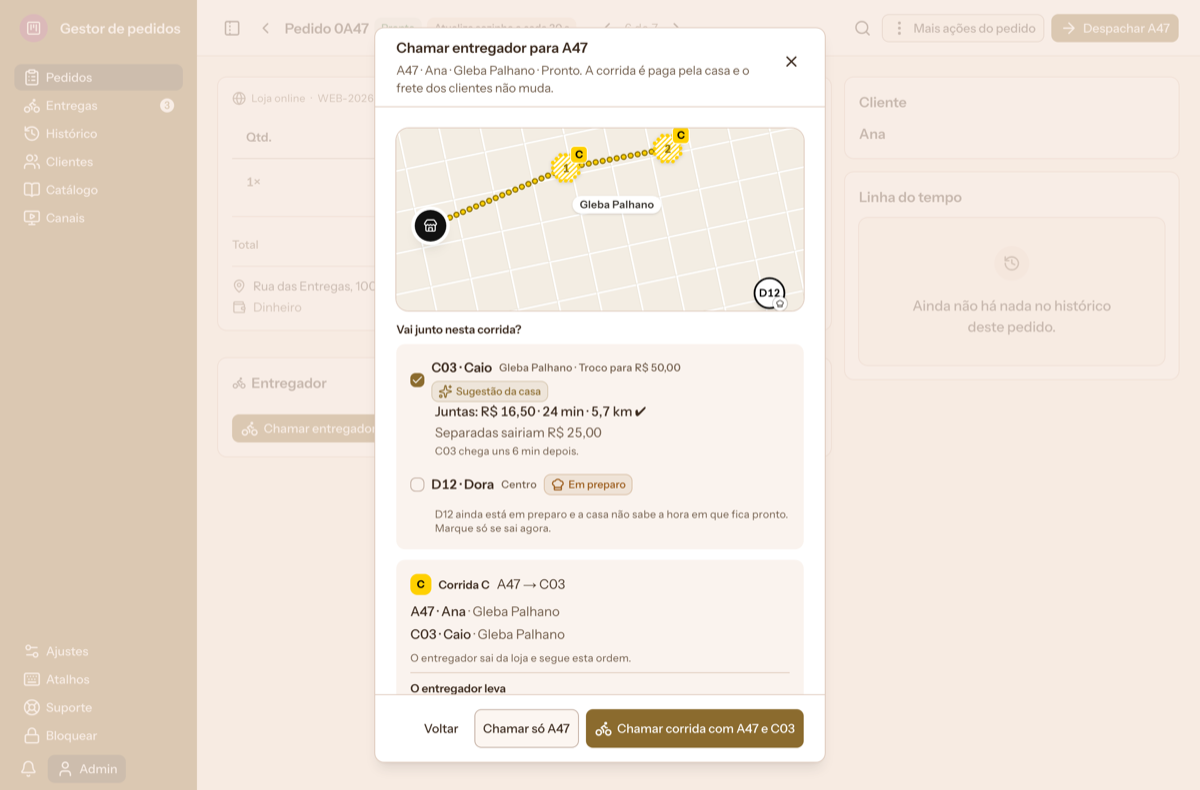
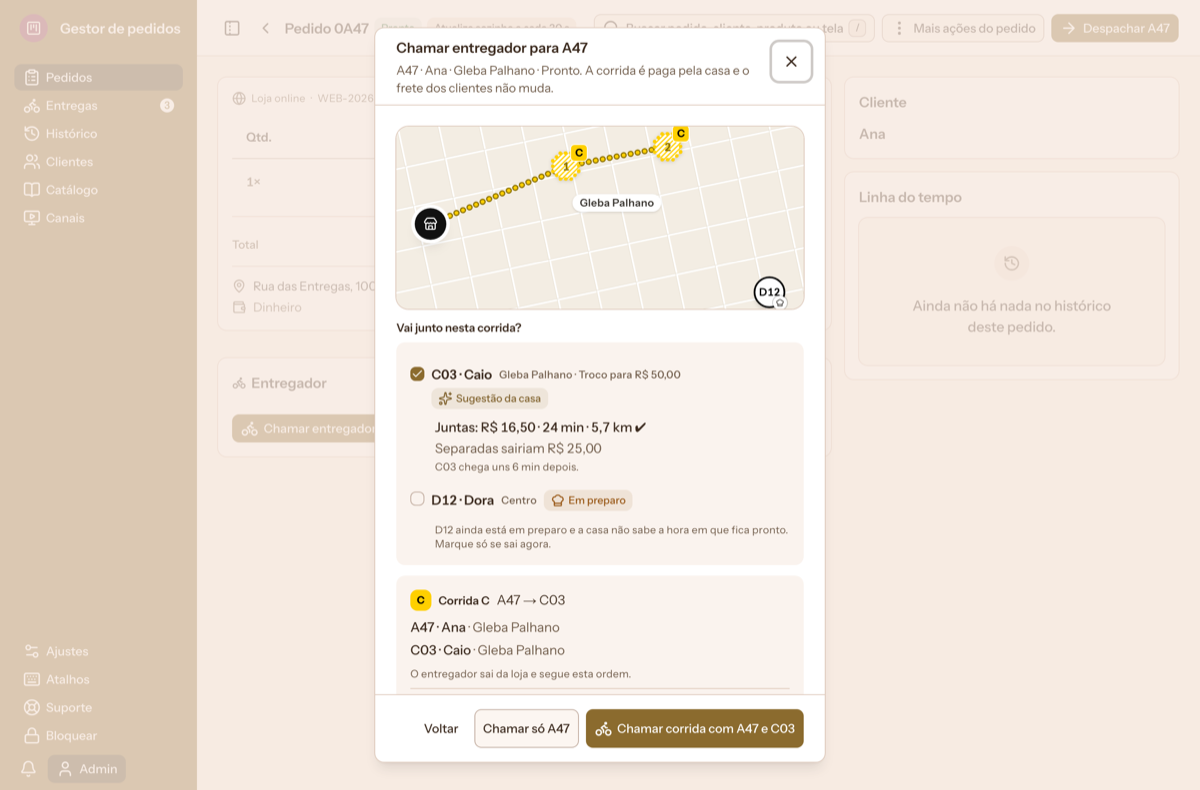
fix(entregas): no sheet, o checkbox do companheiro fica na linha do título
Auditoria da coordenação no #3024: o do C03 descia para a linha de baixo. O
"Voltar" do spec novo conta só as chamadas do próprio toque (o mock guarda as
dos testes anteriores), e o :ref da legenda vai antes do class (lint).

diff --git a/surfaces/orders-nuxt/app/components/CourierDeliveriesMap.vue b/surfaces/orders-nuxt/app/components/CourierDeliveriesMap.vue
@@ -482,7 +482,7 @@ const places = computed(() => {
     <div v-if="!bare && legendCollapsible && !legendOpen" class="absolute top-3 left-3 z-30 rounded-md shadow-sm">
       <NuxtButton color="neutral" variant="outline" icon="i-lucide-info" label="Legenda" class="min-h-11" aria-expanded="false" data-map-legend-toggle @click="legendOpen = true" />
     </div>
-    <div v-if="!bare && (!legendCollapsible || legendOpen)" class="absolute inset-x-3 top-3 mx-auto flex w-fit flex-wrap items-center justify-center gap-x-3 gap-y-1 rounded-md px-2.5 py-1.5 op-micro shadow-sm" :ref="observeLegend" :class="legendCollapsible ? 'z-40 pr-1' : ''" :style="{ background: tokens.chip, color: tokens.text }" data-map-legend>
+    <div v-if="!bare && (!legendCollapsible || legendOpen)" :ref="observeLegend" class="absolute inset-x-3 top-3 mx-auto flex w-fit flex-wrap items-center justify-center gap-x-3 gap-y-1 rounded-md px-2.5 py-1.5 op-micro shadow-sm" :class="legendCollapsible ? 'z-40 pr-1' : ''" :style="{ background: tokens.chip, color: tokens.text }" data-map-legend>
       <span class="flex items-center gap-1"><span class="size-3.5 rounded-full border-2 border-black bg-white" />Aguardando</span>
       <span class="flex items-center gap-1"><svg width="16" height="6" aria-hidden="true"><path d="M2 3H15" :stroke="tokens.neutral" stroke-width="3" stroke-dasharray="0.1 5" stroke-linecap="round" /></svg><svg width="14" height="14" viewBox="0 0 14 14" aria-hidden="true"><defs><pattern id="legend-stripe" width="3" height="3" patternUnits="userSpaceOnUse" patternTransform="rotate(45)"><rect width="3" height="3" fill="#fff" /><rect width="1.1" height="3" :fill="tokens.neutral" /></pattern></defs><polygon points="12.2,9.1 9.1,12.2 4.9,12.2 1.8,9.1 1.8,4.9 4.9,1.8 9.1,1.8 12.2,4.9" fill="url(#legend-stripe)" :stroke="tokens.neutral" stroke-width="2.5" stroke-linecap="round" stroke-linejoin="round" stroke-dasharray="0.1 3.2" /></svg>Editando</span>
       <span class="flex items-center gap-1"><svg width="16" height="6" aria-hidden="true"><path d="M1 3H15" :stroke="tokens.neutral" stroke-width="3" stroke-linecap="round" /></svg><svg width="14" height="14" viewBox="0 0 14 14" aria-hidden="true"><polygon points="12.2,9.1 9.1,12.2 4.9,12.2 1.8,9.1 1.8,4.9 4.9,1.8 9.1,1.8 12.2,4.9" fill="#fff" :stroke="tokens.neutral" stroke-width="2.5" stroke-linejoin="round" /></svg>Corrida</span>

diff --git a/surfaces/orders-nuxt/tests/e2e/courierCall.spec.ts b/surfaces/orders-nuxt/tests/e2e/courierCall.spec.ts
@@ -71,13 +71,17 @@ test.describe("Chamar entregador do Painel e do detalhe", () => {
 
   test("Voltar fecha sem chamar nada", async ({ page }) => {
     await page.goto("/?view=board&columns=all");
+    // O mock guarda as chamadas dos testes anteriores: conta só o que este toque fizer.
+    const callsOfC03 = async () =>
+      ((await (await page.request.get(`${MOCK}/api/v1/backstage/e2e/call/`)).json()) as { calls: { ref: string }[] }).calls
+        .filter((call) => call.ref === C03).length;
+    const callsBefore = await callsOfC03();
     const before = (await rides(page)).filter((ride) => ride.refs.includes(C03)).length;
     await page.locator("article").filter({ hasText: "C03" }).first().getByRole("button", { name: "Chamar entregador", exact: true }).click();
     const sheet = page.getByRole("dialog", { name: "Chamar entregador para C03" });
     await sheet.getByRole("button", { name: "Voltar", exact: true }).click();
     await expect(sheet).toBeHidden();
-    const sent = (await (await page.request.get(`${MOCK}/api/v1/backstage/e2e/call/`)).json()) as { calls: unknown[] };
-    expect(sent.calls).toHaveLength(0);
+    expect(await callsOfC03()).toBe(callsBefore);
     expect((await rides(page)).filter((ride) => ride.refs.includes(C03))).toHaveLength(before);
   });
 });

diff --git a/surfaces/orders-nuxt/app/components/CourierCallSheet.vue b/surfaces/orders-nuxt/app/components/CourierCallSheet.vue
@@ -165,7 +165,7 @@ const machineLabel = (value: string) => props.machineItems.find((item) => item.v
                 <NuxtCheckbox
                   :model-value="choice.checked"
                   :disabled="choice.disabled"
-                  class="min-h-11 items-center"
+                  class="min-h-11 items-start py-2.5"
                   :aria-label="`Levar ${choice.code} junto`"
                   @update:model-value="emit('toggle', choice.ref)"
                 >
